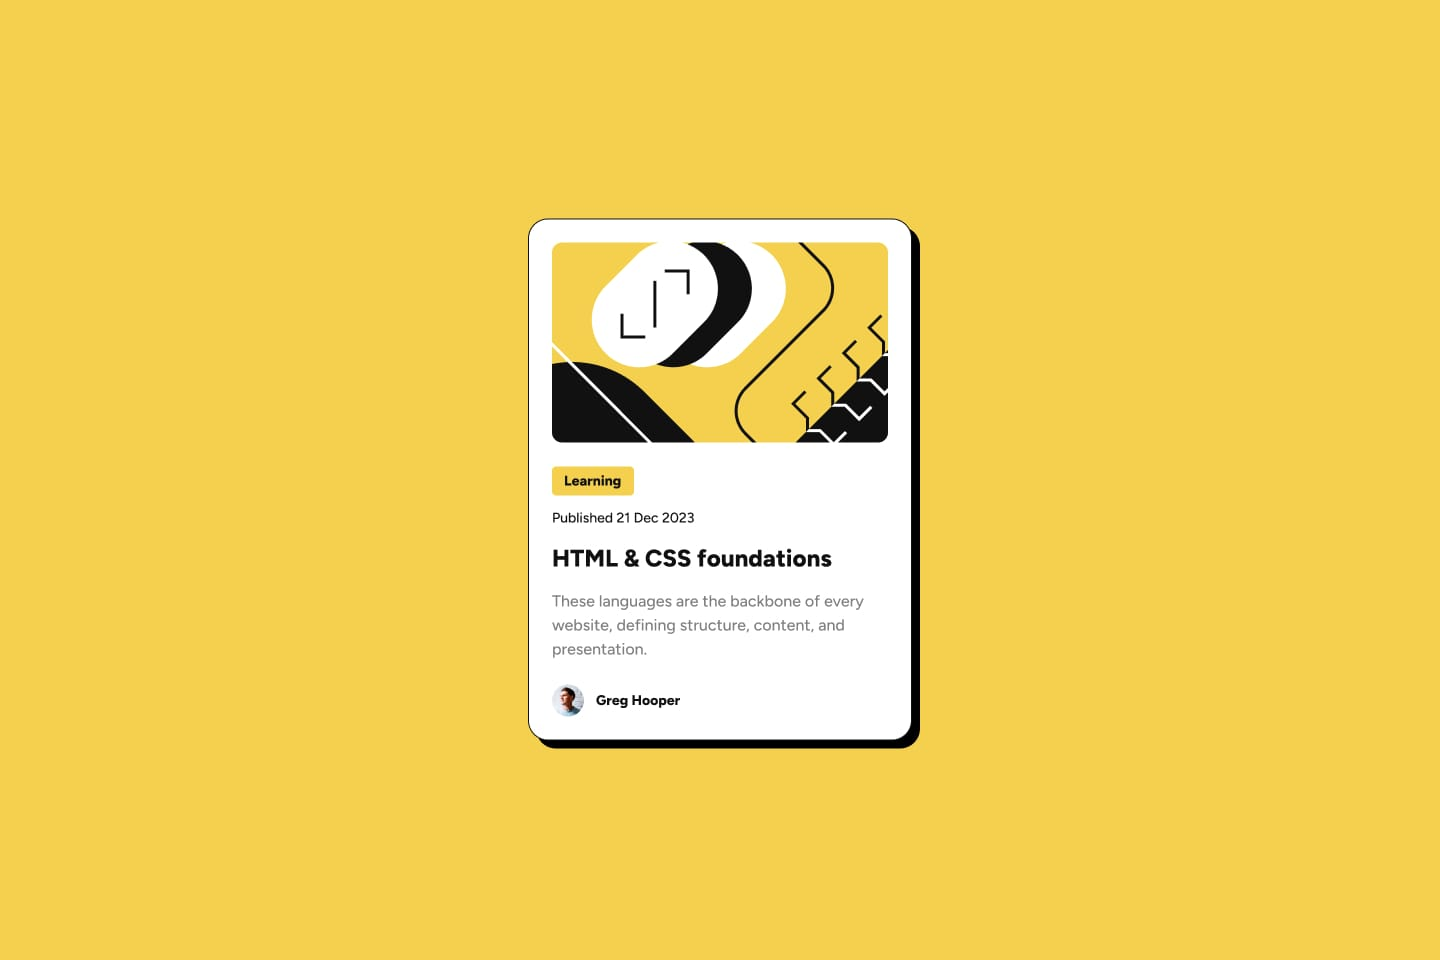
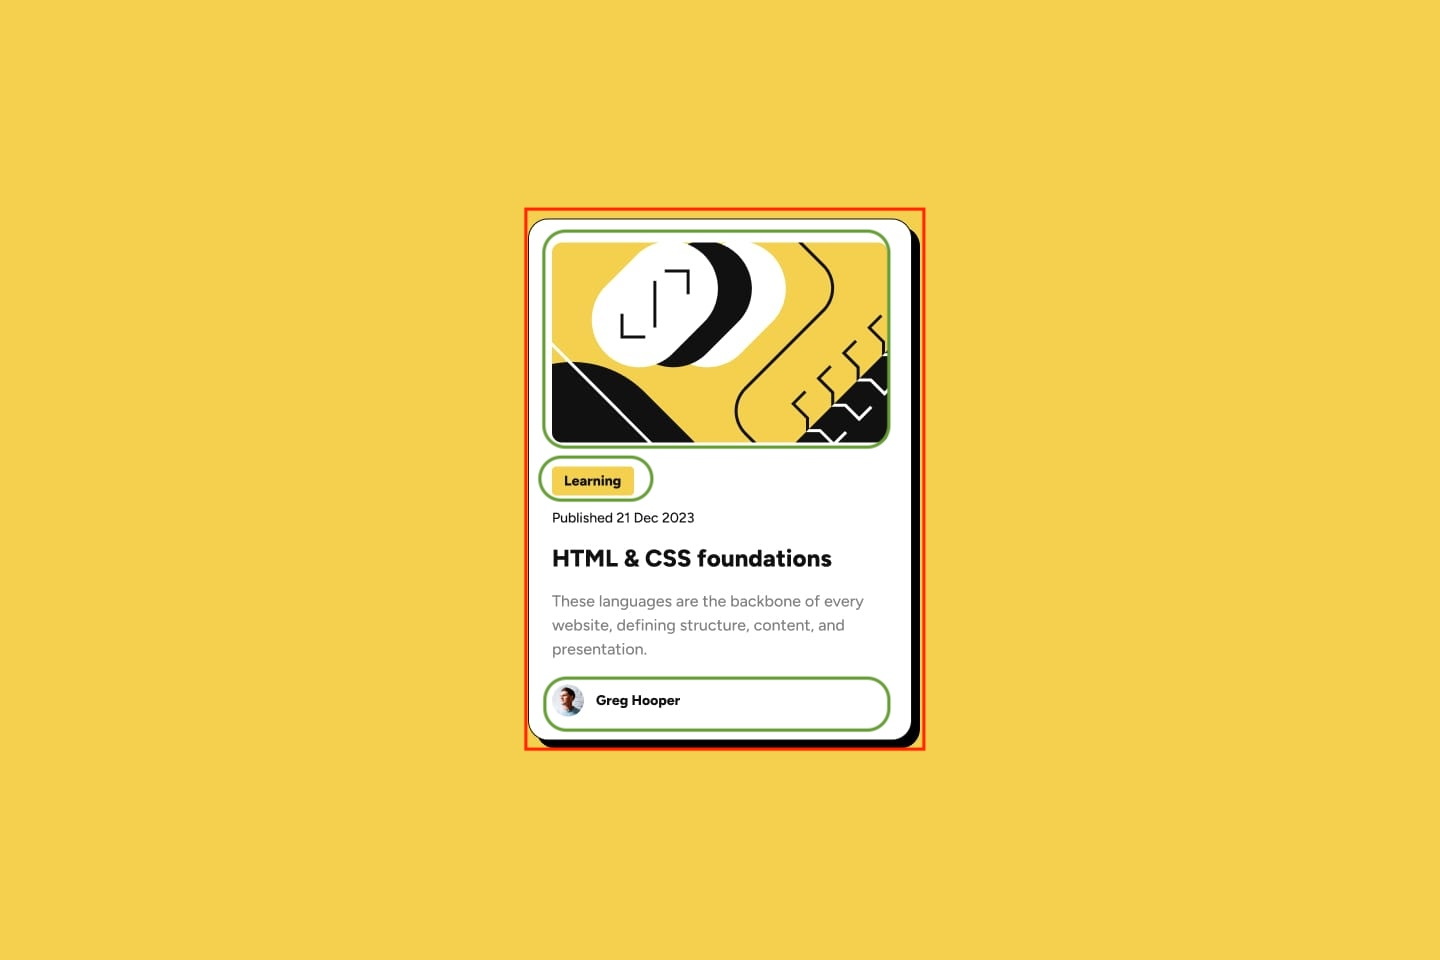
Add styles

Changed region(s): [[0.3438, 0.2188, 0.6562, 0.7812], [0.5938, 0.3438, 0.625, 0.375]]

diff --git a/blog-preview-card-main/index.html b/blog-preview-card-main/index.html
@@ -5,30 +5,38 @@
   <meta name="viewport" content="width=device-width, initial-scale=1.0"> <!-- displays site properly based on user's device -->
 
   <link rel="icon" type="image/png" sizes="32x32" href="./assets/images/favicon-32x32.png">
+  <link rel="stylesheet" href="index.css">
+  <link rel="preconnect" href="https://fonts.googleapis.com">
+  <link rel="preconnect" href="https://fonts.gstatic.com" crossorigin>
+  <link href="https://fonts.googleapis.com/css2?family=Figtree:wght@600;800&display=swap" rel="stylesheet">
   
   <title>Frontend Mentor | Blog preview card</title>
 
   <!-- Feel free to remove these styles or customise in your own stylesheet 👍 -->
-  <style>
+  <!-- <style>
     .attribution { font-size: 11px; text-align: center; }
     .attribution a { color: hsl(228, 45%, 44%); }
-  </style>
+  </style> -->
 </head>
 <body>
-
-  Learning
-
-  Published 21 Dec 2023
-
-  HTML & CSS foundations
-
-  These languages are the backbone of every website, defining structure, content, and presentation.
-
-  Greg Hooper
+  <div class="container">
+    <img class="blog-img" src="assets/images/illustration-article.svg" alt="Illustration with modern designs.">
+    <button class="btn">Learning</button>
+  
+    <p class="publish-date">Published 21 Dec 2023</p>
+  
+    <h1>HTML & CSS foundations</h1>
+  
+    <p class="description">These languages are the backbone of every website, defining structure, content, and presentation.</p>
+    <div class="flex-container">
+      <img src="assets/images/image-avatar.webp" alt="Headshot of Greg Hooper">
+      <p>Greg Hooper</p>
+    </div>
+  </div>
   
   <div class="attribution">
     Challenge by <a href="https://www.frontendmentor.io?ref=challenge" target="_blank">Frontend Mentor</a>. 
-    Coded by <a href="#">Your Name Here</a>.
+    Coded by <a href="#">Abraham Mengistu</a>.
   </div>
 </body>
 </html>

diff --git a/blog-preview-card-main/index.css b/blog-preview-card-main/index.css
@@ -1,0 +1,81 @@
+ :root { 
+    /* primary */
+    --yellow: hsl(47, 88%, 63%);
+    /* neutral */
+    --white: hsl(0, 0%, 100%);
+    --grey: hsl(0, 0%, 50%);
+    --black: hsl(0, 0%, 7%);
+ }
+ 
+ * {
+    margin: 0;
+    box-sizing: border-box;
+ }
+
+ html, body {
+    min-height: 100%;
+ }
+
+ body {
+    font-family: 'Figtree', sans-serif;
+    background-color: var(--yellow);
+    height: 100vh;
+    display: flex;
+    flex-direction: column;
+    justify-content: center;
+    align-items: center;
+ }
+
+ .container {
+    margin: 10px auto;
+    background-color: var(--white);
+    padding: 25px;
+    border: 1px solid var(--black);
+    border-radius: 10px;
+    box-shadow: 4px 4px var(--black);
+    max-width: 450px;
+ }
+
+ .blog-img {
+    width: 100%;
+    border-radius: 5px;
+ }
+
+ .btn {
+    display: block;
+    margin: 10px 0;
+    background-color: var(--yellow);
+    border-radius: 2px;
+    border-style: none;
+    padding: 5px 10px;
+    font-weight: 800;
+ }
+
+ .publish-date {
+    margin: 20px 0;
+ }
+
+ .attribution a {
+    text-decoration: none;
+ }
+
+.description {
+    color: var(--grey);
+    margin: 30px 0;
+    line-height: 1.5;
+}
+
+.flex-container {
+    display: flex;
+    align-items: center;
+    gap: 15px;
+}
+
+.flex-container p {
+    font-weight: 800;
+}
+
+.flex-container img {
+    height: auto;
+    max-width: 100%;
+}
